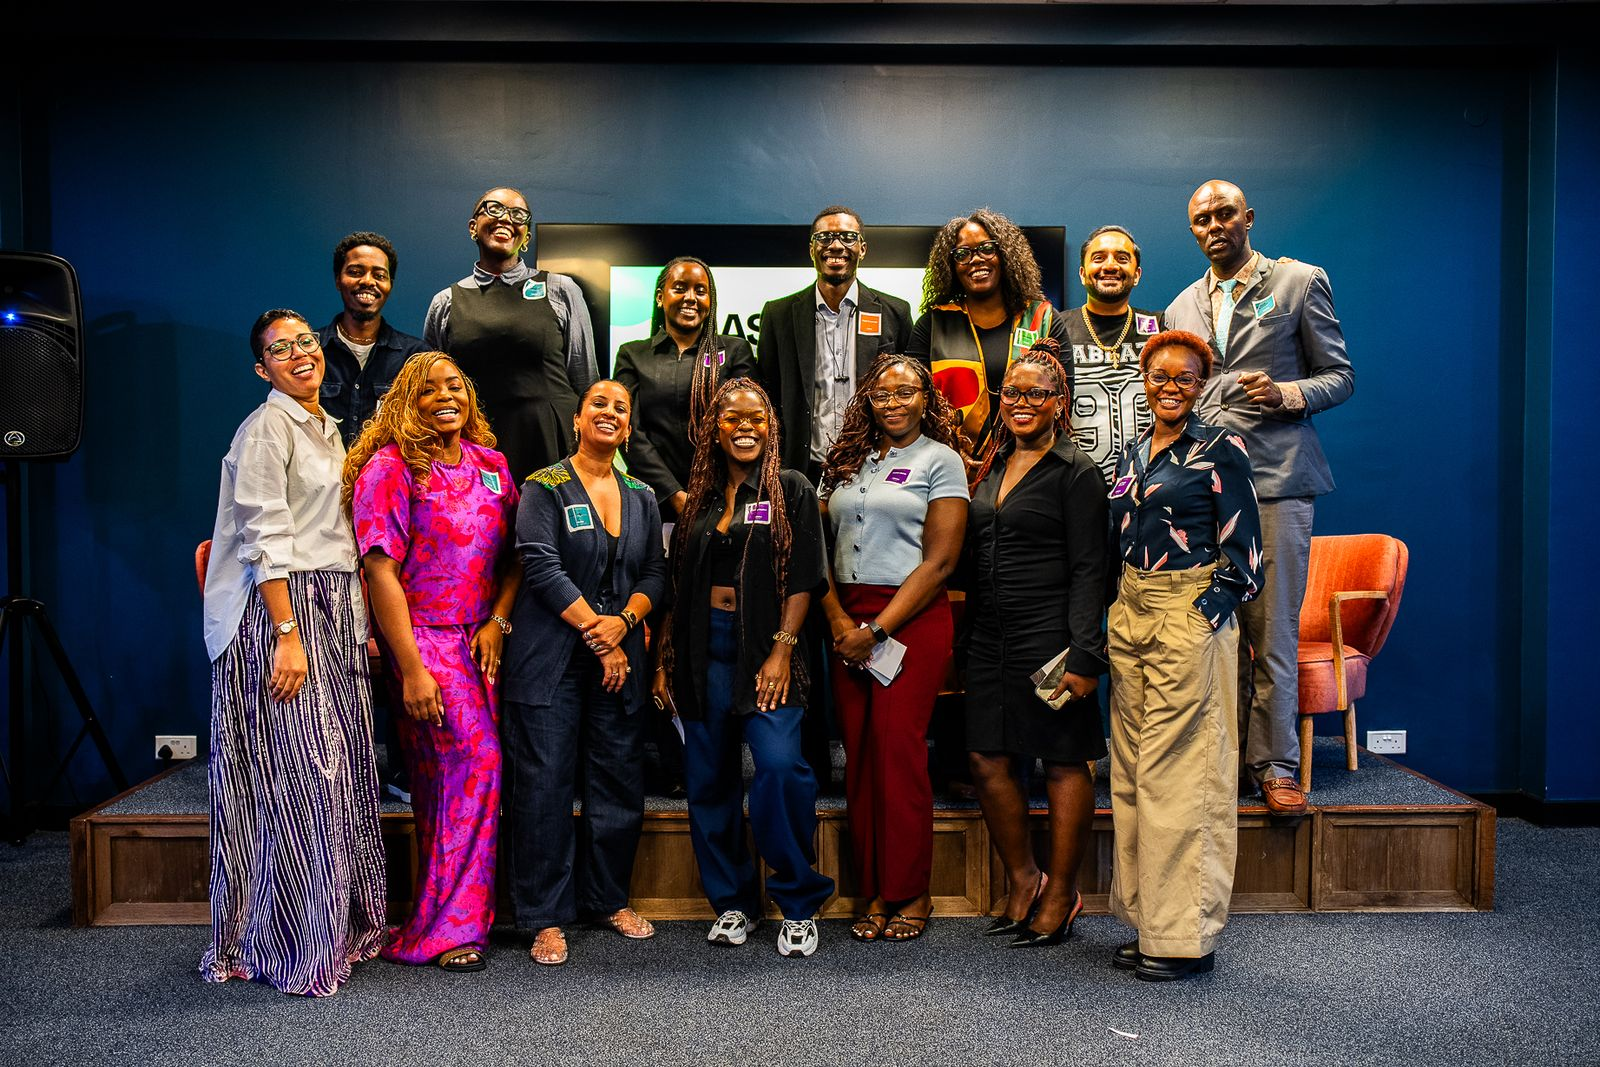
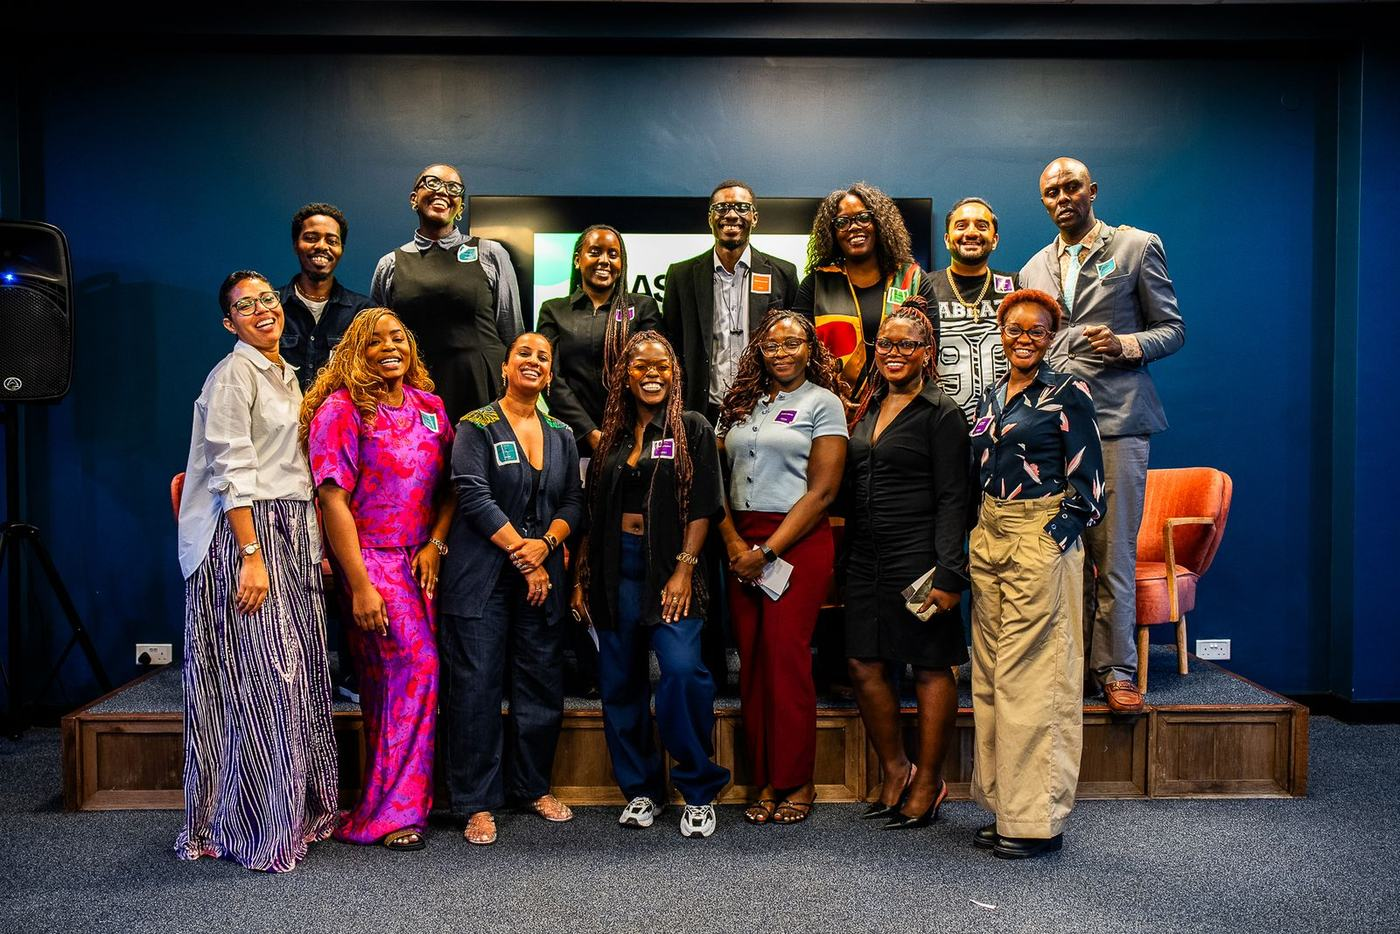
Hide prices on the Lagos and New York pages; compress site images
- Lagos and New York pages: remove the USD prices, price lines in the
  search descriptions and the pricing FAQ answer; packages now point to
  the enquiry form, matching the rest of the site
- Compress the photos and logos the site uses from about 2.6 MB to 1.1 MB
  (same file names, sized for the screen) so pages load faster on mobile data

Claude-Session: https://claude.ai/code/session_01RgUUSPkBkaniMXuBkAWNML

diff --git a/new-york-hospitality.html b/new-york-hospitality.html
@@ -11,10 +11,10 @@ j=d.createElement(s),dl=l!='dataLayer'?'&l='+l:'';j.async=true;j.src=
 <meta charset="UTF-8">
 <meta name="viewport" content="width=device-width, initial-scale=1.0">
 <title>Video &amp; Social Media for African Restaurants NYC | ELEWA TV</title>
-<meta name="description" content="Video, social media and booking paths for African, Caribbean and diaspora restaurants and venues in New York. Prices from $1,085. Free audit.">
+<meta name="description" content="Video, social media and booking paths for African, Caribbean and diaspora restaurants and venues in New York. Free audit.">
 <meta property="og:type" content="website">
 <meta property="og:title" content="Video &amp; Social Media for African Restaurants NYC | ELEWA TV">
-<meta property="og:description" content="Video, social media and booking paths for African, Caribbean and diaspora restaurants and venues in New York. Prices from $1,085. Free audit.">
+<meta property="og:description" content="Video, social media and booking paths for African, Caribbean and diaspora restaurants and venues in New York. Free audit.">
 <meta property="og:url" content="https://elewatv.com/new-york-hospitality.html">
 <meta name="twitter:card" content="summary">
 <link rel="canonical" href="https://elewatv.com/new-york-hospitality.html">
@@ -49,8 +49,8 @@ height="0" width="0" style="display:none;visibility:hidden"></iframe></noscript>
     <div class="hero-text">
       <span class="tag">For New York hospitality</span>
       <h1><span>Fuller Tables</span> <span class="r">For NYC's African</span> <span class="c">&amp; Caribbean Venues.</span></h1>
-      <p>Video, social media and booking paths for African, Caribbean and diaspora-owned restaurants, lounges and hospitality brands in New York. Prices up front.</p>
-      <div class="hero-ctas"><a class="btn btn-red" href="#contact">Get a free audit</a><a class="btn btn-ghost" href="#packages">See prices</a></div>
+      <p>Video, social media and booking paths for African, Caribbean and diaspora-owned restaurants, lounges and hospitality brands in New York.</p>
+      <div class="hero-ctas"><a class="btn btn-red" href="#contact">Get a free audit</a><a class="btn btn-ghost" href="#packages">See packages</a></div>
     </div>
   </div>
 </section>
@@ -58,7 +58,7 @@ height="0" width="0" style="display:none;visibility:hidden"></iframe></noscript>
   <div class="wrap">
     <span class="tag">Why us</span>
     <h2 id="why-h" class="h2" style="margin-bottom:20px">Your Food Has A Story. <span class="amp">Tell</span> It Properly.</h2>
-    <p class="lead">New York has plenty of video agencies. Many of them shoot every restaurant the same way, and many keep their prices behind a form. You should know what it costs before you pick up the phone.</p>
+    <p class="lead">New York has plenty of video agencies. Many of them shoot every restaurant the same way. We start from your food, your room and your community, and show you what the content did every month.</p>
     <p>ELEWA TV makes African stories for a living. We know the difference between jollof and a jollof night, why a Sunday brunch fills a room, and how a diaspora crowd finds a place. We make video, run your social media and set up your booking path for African, Caribbean and diaspora-owned restaurants, lounges, bars and hospitality brands in New York.</p>
   </div>
 </section>
@@ -87,13 +87,13 @@ height="0" width="0" style="display:none;visibility:hidden"></iframe></noscript>
 </section>
 <section class="section" id="packages" aria-labelledby="pk-h">
   <div class="wrap">
-    <span class="tag">Prices</span>
-    <h2 id="pk-h" class="h2" style="margin-bottom:12px">Clear Prices, <span class="amp">No</span> Guesswork</h2>
-    <p class="lead" style="margin-bottom:36px">Prices are in US dollars and listed up front. Every package starts with a free audit.</p>
+    <span class="tag">Packages</span>
+    <h2 id="pk-h" class="h2" style="margin-bottom:12px">Pick Your <span class="amp">Package</span></h2>
+    <p class="lead" style="margin-bottom:36px">Every package starts with a free audit. Tell us your goals and we'll send pricing.</p>
     <div class="packages">
-      <div class="package"><h3>One-off shoot</h3><p style="margin:0"><strong>From $1,085</strong></p><ul><li>One shoot day at your venue</li><li>Edited video and photos for Instagram, TikTok and your website</li><li>Good for a launch, a menu change or a season</li></ul><a class="btn btn-ghost" href="#contact">Book a shoot</a></div>
-      <div class="package hl"><h3>Essential <span class="tag" style="vertical-align:middle;margin-left:6px">Start here</span></h3><p style="margin:0"><strong>$1,395 a month</strong> · 3-month minimum</p><ul><li>Social media strategy</li><li>Monthly content calendar</li><li>One shoot day a month</li><li>Instagram and TikTok management</li><li>Monthly report</li></ul><a class="btn btn-dark" href="#contact">Start with an audit</a></div>
-      <div class="package"><h3>Growth</h3><p style="margin:0"><strong>$2,713 a month</strong> · 3-month minimum</p><ul><li>Everything in Essential</li><li>Weekly programming and events</li><li>Paid social management</li><li>Guest data dashboard</li><li>More production days</li></ul><a class="btn btn-ghost" href="#contact">Start with an audit</a></div>
+      <div class="package"><h3>One-off shoot</h3><ul><li>One shoot day at your venue</li><li>Edited video and photos for Instagram, TikTok and your website</li><li>Good for a launch, a menu change or a season</li></ul><a class="btn btn-ghost" href="#contact">Book a shoot</a></div>
+      <div class="package hl"><h3>Essential <span class="tag" style="vertical-align:middle;margin-left:6px">Start here</span></h3><ul><li>Social media strategy</li><li>Monthly content calendar</li><li>One shoot day a month</li><li>Instagram and TikTok management</li><li>Monthly report</li></ul><a class="btn btn-dark" href="#contact">Start with an audit</a></div>
+      <div class="package"><h3>Growth</h3><ul><li>Everything in Essential</li><li>Weekly programming and events</li><li>Paid social management</li><li>Guest data dashboard</li><li>More production days</li></ul><a class="btn btn-ghost" href="#contact">Start with an audit</a></div>
     </div>
     <p class="small-note">Add-ons such as extra shoot days, paid social budgets and events are quoted separately. The retainers have a 3-month minimum so the content has time to build.</p>
   </div>
@@ -102,7 +102,7 @@ height="0" width="0" style="display:none;visibility:hidden"></iframe></noscript>
   <div class="faq-inner wrap">
     <span class="tag">Questions</span>
     <h2 class="h2" style="margin-bottom:24px">What Owners Ask Us</h2>
-    <details><summary>How much does it cost?</summary><p>A one-off shoot starts from $1,085. Monthly retainers start at $1,395 for Essential and $2,713 for Growth, with a 3-month minimum. Add-ons are quoted separately.</p></details>
+    <details><summary>How much does it cost?</summary><p>It depends on what you need. Every package starts with a free audit, and we send pricing once we understand your goals. Use the enquiry form or email Info@elewatv.com.</p></details>
     <details><summary>Who do you work with in New York?</summary><p>African, Caribbean and diaspora-owned restaurants, lounges, bars and hospitality brands, across Harlem, the Bronx, Brooklyn, Queens and Manhattan.</p></details>
     <details><summary>How do shoots work if your team is based in Nairobi and Lagos?</summary><p>We plan the shoot and the content calendar with you first. Then we book a local New York crew to capture it at your venue in a day, and our team edits and posts it.</p></details>
     <details><summary>Do you promise followers or viral videos?</summary><p>No. We do not sell follower numbers. We report on what matters to you: enquiries, bookings and covers.</p></details>

diff --git a/lagos-hospitality.html b/lagos-hospitality.html
@@ -11,10 +11,10 @@ j=d.createElement(s),dl=l!='dataLayer'?'&l='+l:'';j.async=true;j.src=
 <meta charset="UTF-8">
 <meta name="viewport" content="width=device-width, initial-scale=1.0">
 <title>Restaurant &amp; Hotel Content Agency in Lagos | ELEWA TV</title>
-<meta name="description" content="Video, social media and booking paths for Lagos restaurants, lounges, hotels and event venues. Prices from $1,085. Free audit. ELEWA TV.">
+<meta name="description" content="Video, social media and booking paths for Lagos restaurants, lounges, hotels and event venues. Free audit. ELEWA TV.">
 <meta property="og:type" content="website">
 <meta property="og:title" content="Restaurant &amp; Hotel Content Agency in Lagos | ELEWA TV">
-<meta property="og:description" content="Video, social media and booking paths for Lagos restaurants, lounges, hotels and event venues. Prices from $1,085. Free audit. ELEWA TV.">
+<meta property="og:description" content="Video, social media and booking paths for Lagos restaurants, lounges, hotels and event venues. Free audit. ELEWA TV.">
 <meta property="og:url" content="https://elewatv.com/lagos-hospitality.html">
 <meta name="twitter:card" content="summary">
 <link rel="canonical" href="https://elewatv.com/lagos-hospitality.html">
@@ -50,7 +50,7 @@ height="0" width="0" style="display:none;visibility:hidden"></iframe></noscript>
       <span class="tag">For Lagos hospitality</span>
       <h1><span>Fuller Tables</span> <span class="r">In Lagos, Every</span> <span class="c">Night Of The Week.</span></h1>
       <p>Video, social media and booking paths for restaurants, lounges, hotels and event venues in Lagos. Built for the December rush and the quiet Tuesdays after it.</p>
-      <div class="hero-ctas"><a class="btn btn-red" href="#contact">Get a free audit</a><a class="btn btn-ghost" href="#packages">See prices</a></div>
+      <div class="hero-ctas"><a class="btn btn-red" href="#contact">Get a free audit</a><a class="btn btn-ghost" href="#packages">See packages</a></div>
     </div>
   </div>
 </section>
@@ -87,13 +87,13 @@ height="0" width="0" style="display:none;visibility:hidden"></iframe></noscript>
 </section>
 <section class="section" id="packages" aria-labelledby="pk-h">
   <div class="wrap">
-    <span class="tag">Prices</span>
-    <h2 id="pk-h" class="h2" style="margin-bottom:12px">Clear Prices, <span class="amp">No</span> Guesswork</h2>
-    <p class="lead" style="margin-bottom:36px">Prices are in US dollars so they stay fixed while the naira moves. We can quote in naira on request.</p>
+    <span class="tag">Packages</span>
+    <h2 id="pk-h" class="h2" style="margin-bottom:12px">Pick Your <span class="amp">Package</span></h2>
+    <p class="lead" style="margin-bottom:36px">Every package starts with a free audit. Tell us your goals and we'll send pricing.</p>
     <div class="packages">
-      <div class="package"><h3>One-off shoot</h3><p style="margin:0"><strong>From $1,085</strong></p><ul><li>One shoot day at your venue</li><li>Edited video and photos for Instagram, TikTok and your website</li><li>Good for a launch, a menu change or a season</li></ul><a class="btn btn-ghost" href="#contact">Book a shoot</a></div>
-      <div class="package hl"><h3>Essential <span class="tag" style="vertical-align:middle;margin-left:6px">Start here</span></h3><p style="margin:0"><strong>$1,395 a month</strong> · 3-month minimum</p><ul><li>Social media strategy</li><li>Monthly content calendar</li><li>One shoot day a month</li><li>Instagram and TikTok management</li><li>Monthly report</li></ul><a class="btn btn-dark" href="#contact">Start with an audit</a></div>
-      <div class="package"><h3>Growth</h3><p style="margin:0"><strong>$2,713 a month</strong> · 3-month minimum</p><ul><li>Everything in Essential</li><li>Weekly programming and events</li><li>Paid social management</li><li>Guest data dashboard</li><li>More production days</li></ul><a class="btn btn-ghost" href="#contact">Start with an audit</a></div>
+      <div class="package"><h3>One-off shoot</h3><ul><li>One shoot day at your venue</li><li>Edited video and photos for Instagram, TikTok and your website</li><li>Good for a launch, a menu change or a season</li></ul><a class="btn btn-ghost" href="#contact">Book a shoot</a></div>
+      <div class="package hl"><h3>Essential <span class="tag" style="vertical-align:middle;margin-left:6px">Start here</span></h3><ul><li>Social media strategy</li><li>Monthly content calendar</li><li>One shoot day a month</li><li>Instagram and TikTok management</li><li>Monthly report</li></ul><a class="btn btn-dark" href="#contact">Start with an audit</a></div>
+      <div class="package"><h3>Growth</h3><ul><li>Everything in Essential</li><li>Weekly programming and events</li><li>Paid social management</li><li>Guest data dashboard</li><li>More production days</li></ul><a class="btn btn-ghost" href="#contact">Start with an audit</a></div>
     </div>
     <p class="small-note">Add-ons such as extra shoot days, paid social budgets and events are quoted separately. The retainers have a 3-month minimum so the content has time to build.</p>
   </div>
@@ -102,7 +102,7 @@ height="0" width="0" style="display:none;visibility:hidden"></iframe></noscript>
   <div class="faq-inner wrap">
     <span class="tag">Questions</span>
     <h2 class="h2" style="margin-bottom:24px">What Owners Ask Us</h2>
-    <details><summary>How much does it cost?</summary><p>A one-off shoot starts from $1,085. Monthly retainers start at $1,395 for Essential and $2,713 for Growth, with a 3-month minimum. Prices are in US dollars, and we can quote in naira on request.</p></details>
+    <details><summary>How much does it cost?</summary><p>It depends on what you need. Every package starts with a free audit, and we send pricing once we understand your goals. Use the enquiry form or email Info@elewatv.com.</p></details>
     <details><summary>Which parts of Lagos do you work in?</summary><p>Restaurants, lounges, hotels and event venues across Lagos, including Victoria Island, Ikoyi, Lekki and the Mainland.</p></details>
     <details><summary>Can you help before the December rush?</summary><p>Start with the free audit and we will tell you what is realistic for your dates. We book shoot days in order, so the earlier you ask, the more of the season we can cover.</p></details>
     <details><summary>Do you promise followers or viral videos?</summary><p>No. We do not sell follower numbers. We report on what matters to you: enquiries, bookings and covers.</p></details>
